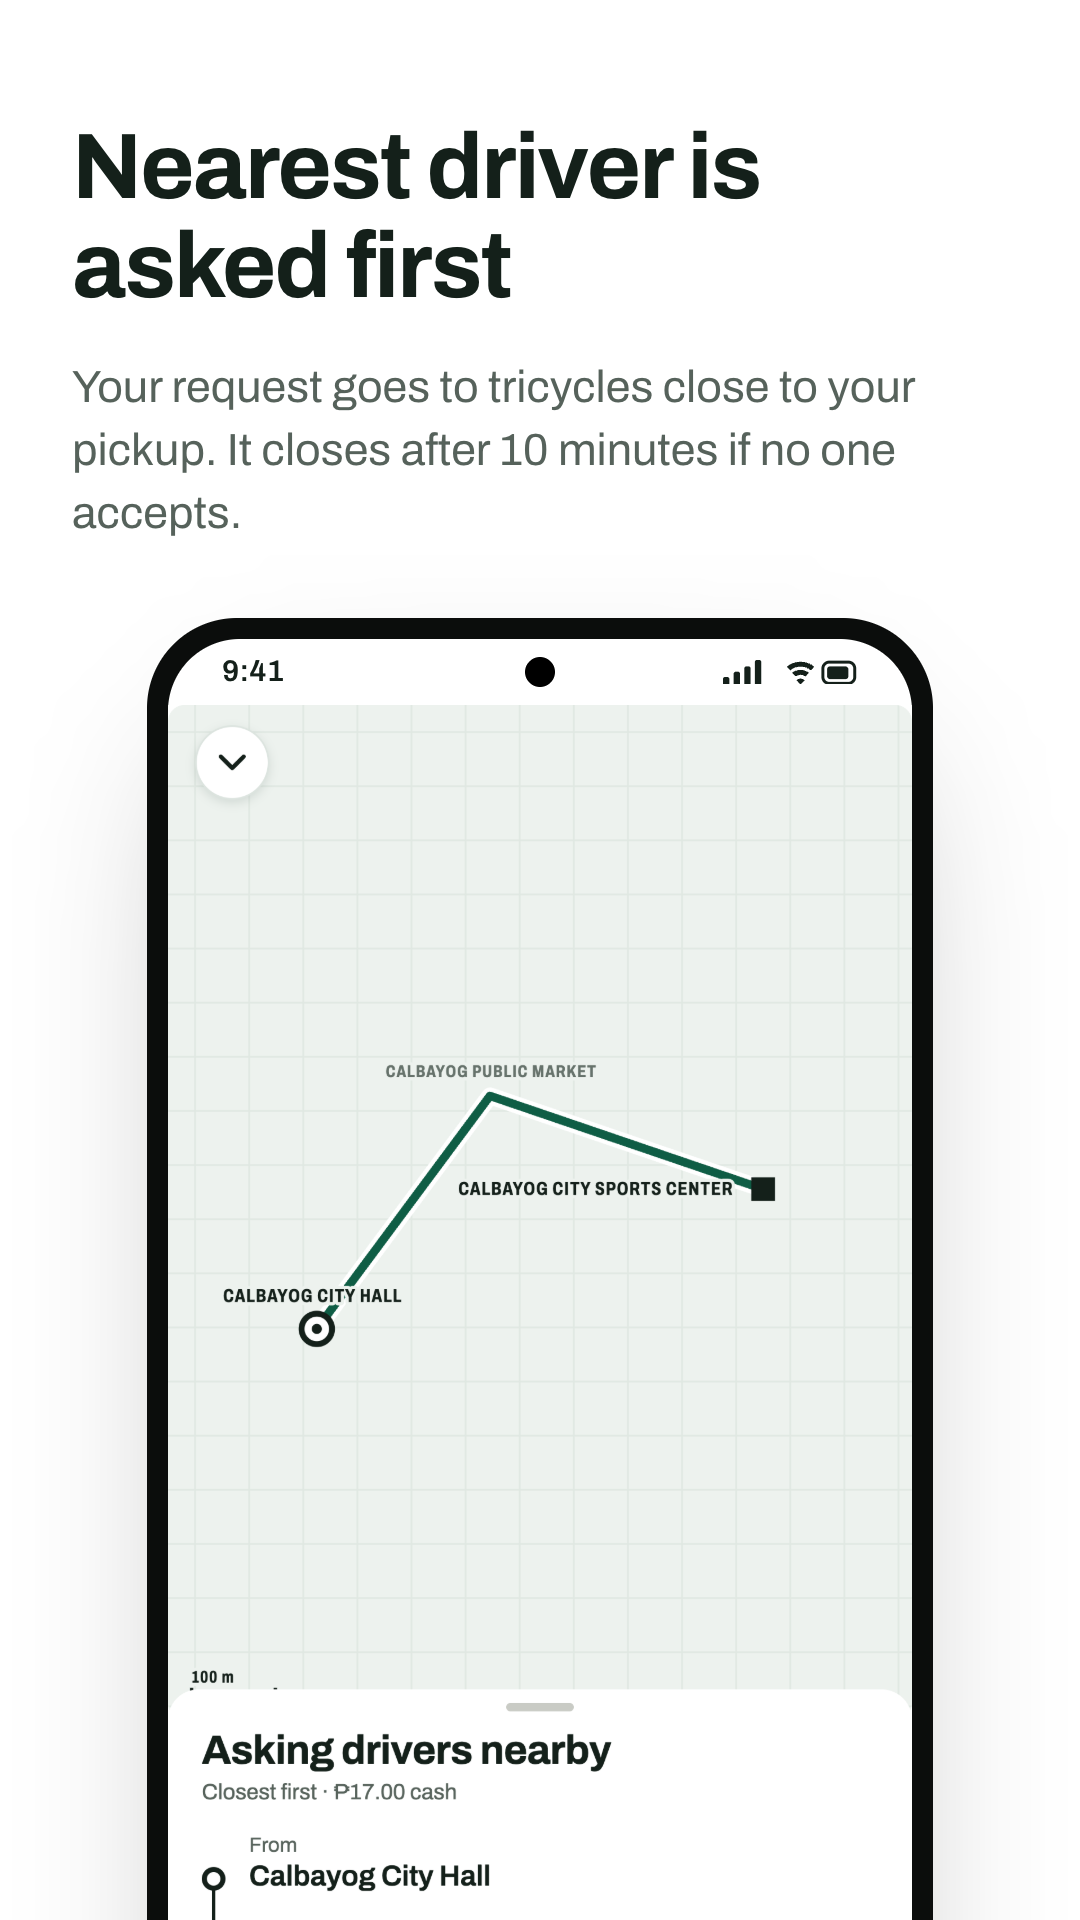
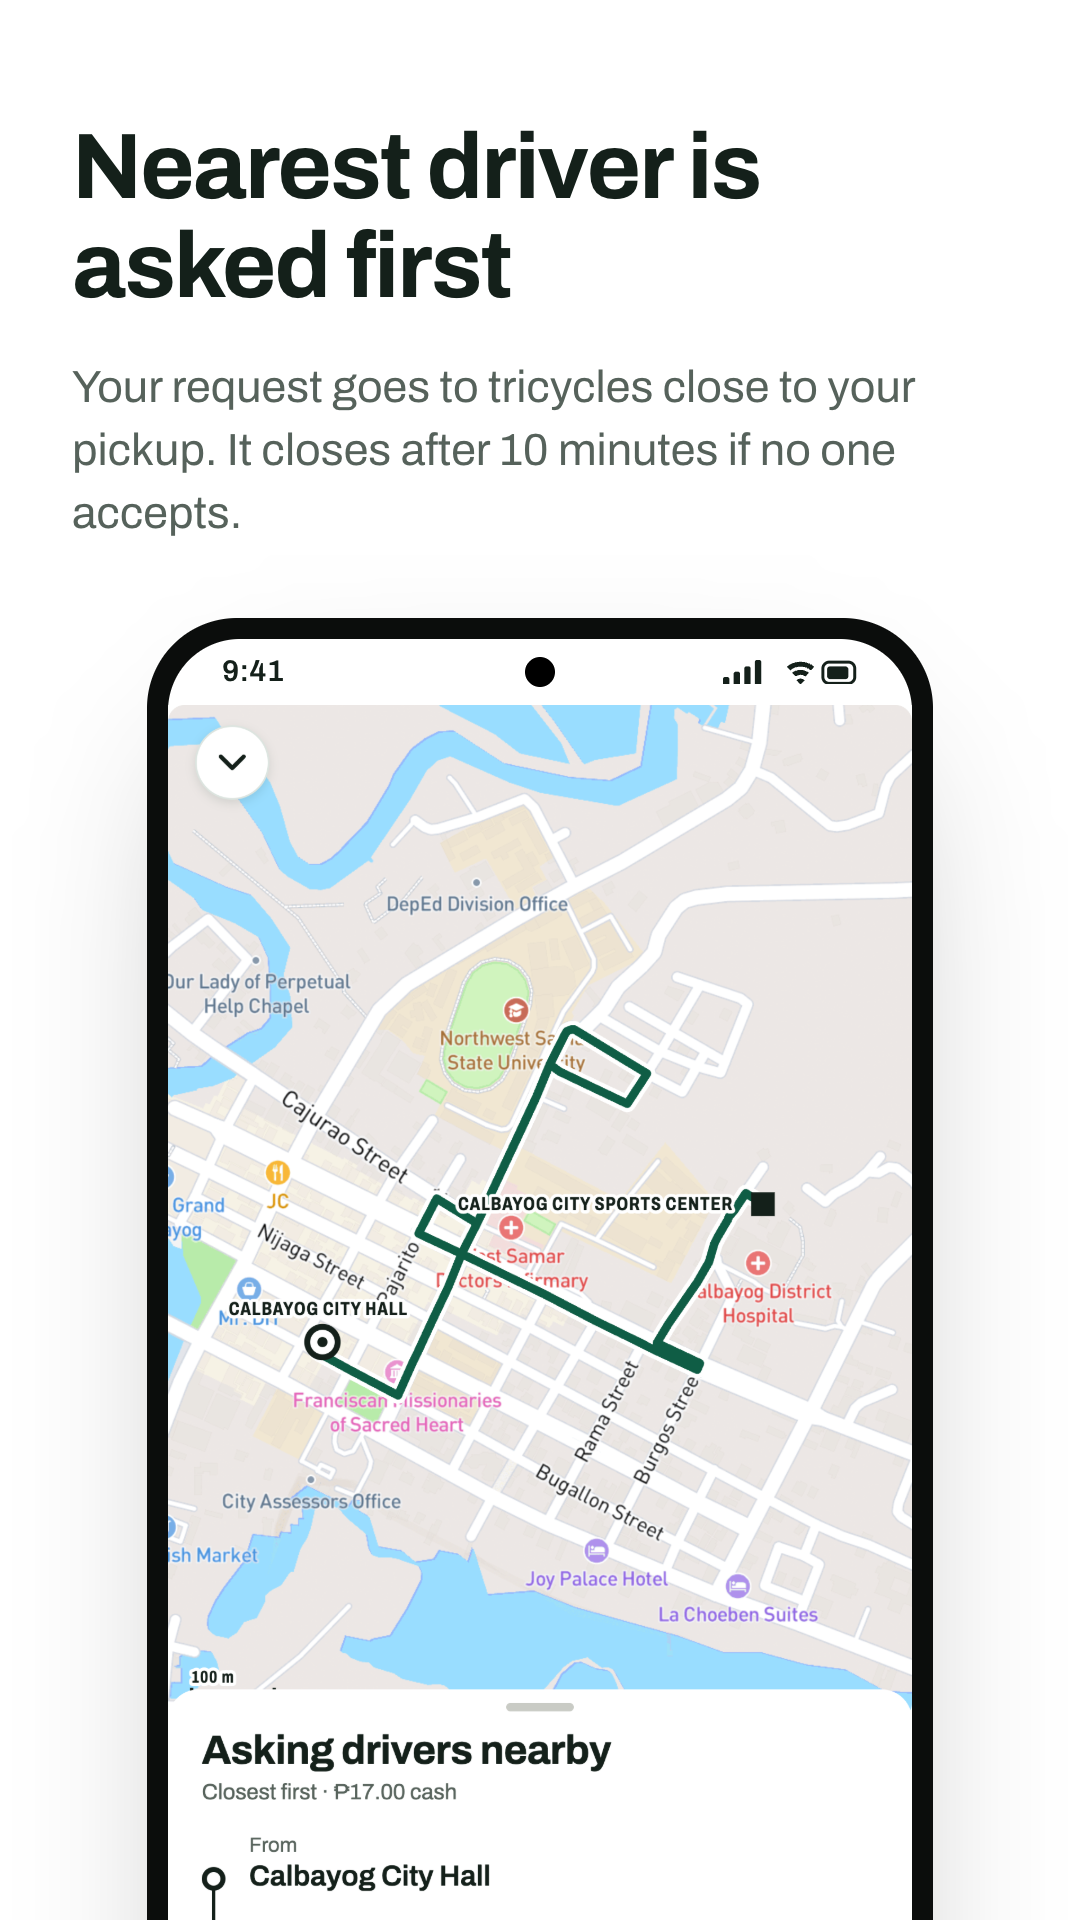
map: draw Angkol's markers over Mapbox streets and snap sample routes to real roads
- RouteDiagram puts a Mapbox streets-v12 basemap under its own route, stops,
  vehicles and labels when EXPO_PUBLIC_MAPBOX_ACCESS_TOKEN is set; plain paper otherwise
- Sample trip and jeepney lines come from src/map/roads.json, generated once
  by scripts/capture/roads.mjs; the app makes no Directions calls
- Remove the pin-style StaticMap and the low-res map screenshot asset
- Capture script allows Mapbox tiles; store screenshots recaptured

diff --git a/src/map/RouteDiagram.tsx b/src/map/RouteDiagram.tsx
@@ -1,10 +1,15 @@
 import React, { useState } from "react";
-import { Pressable, StyleSheet, View, useWindowDimensions, type GestureResponderEvent } from "react-native";
+import { Image, Pressable, StyleSheet, Text, View, useWindowDimensions, type GestureResponderEvent } from "react-native";
 import Svg, { Circle, G, Line, Polyline, Rect, Text as SvgText } from "react-native-svg";
 import type { MapProps } from "./mapTypes";
 import type { Point } from "../types/types";
-import { DEFAULT_CENTER, distanceKm } from "../services/mapbox";
+import { DEFAULT_CENTER, basemapUrl, distanceKm, hasMapbox } from "../services/mapbox";
 import { glyphShapes } from "../common/Glyph";
+import roads from "./roads.json";
+import { roadKey } from "./roadKey";
+
+/** Sample lines snapped to real roads ahead of time (scripts/capture/roads.mjs). */
+const onRoads = (coords: number[][]) => (roads as Record<string, number[][]>)[roadKey(coords)];
 
 const INK = "#14201A";
 const PAPER = "#EDF2EE";
@@ -32,7 +37,9 @@ function fit(points: Point[], width: number, height: number, pad: number): View2
   const spanX = Math.max(maxX - minX, 1e-7);
   const spanY = Math.max(maxY - minY, 1e-7);
   const fitScale = Math.min((width - pad * 2) / spanX, (height - pad * 2) / spanY);
-  const scale = Math.max(TILE * 2 ** 12.5, Math.min(TILE * 2 ** 16.4, fitScale));
+  // Zoom is kept to two decimals so a Mapbox basemap at the same zoom lines up pixel for pixel.
+  const zoom = Math.round(Math.log2(Math.max(TILE * 2 ** 12.5, Math.min(TILE * 2 ** 16.4, fitScale)) / TILE) * 100) / 100;
+  const scale = TILE * 2 ** zoom;
   return { cx: (minX + maxX) / 2, cy: (minY + maxY) / 2, scale };
 }
 
@@ -97,7 +104,7 @@ function Label({ x, y, text, color = INK, anchor = "middle", size = 11 }: { x: n
   const label = text;
   return (
     <G>
-      <SvgText {...common} stroke={PAPER} strokeWidth={4} strokeLinejoin="round" fill={PAPER}>
+      <SvgText {...common} stroke="#FFFFFF" strokeWidth={4} strokeLinejoin="round" fill="#FFFFFF">
         {label}
       </SvgText>
       <SvgText {...common} fill={color}>
@@ -108,7 +115,7 @@ function Label({ x, y, text, color = INK, anchor = "middle", size = 11 }: { x: n
 }
 
 /**
- * Angkol's map: a drawn route diagram instead of a borrowed basemap.
+ * Angkol's map: our own route, stops and vehicles, drawn over Mapbox streets when a token is set.
  * Each screen frames its own subject: the approaching driver, the ride,
  * the corridor, or the spot being picked.
  */
@@ -129,7 +136,17 @@ export default function RouteDiagram({
   const window = useWindowDimensions();
   const [width, setWidth] = useState(Math.max(280, window.width - 40));
 
-  const line: Point[] = (geometry?.coordinates ?? []).map(([longitude, latitude]) => ({ name: "", latitude, longitude }));
+  const given = geometry?.coordinates ?? [];
+  const snapped =
+    given.length >= 2
+      ? onRoads(given)
+      : pickup && destination
+        ? onRoads([[pickup.longitude, pickup.latitude], [destination.longitude, destination.latitude]])
+        : undefined;
+  // Roads end at the kerb; join them to the actual pickup and drop-off marks.
+  const ends = given.length >= 2 ? given : pickup && destination ? [[pickup.longitude, pickup.latitude], [destination.longitude, destination.latitude]] : [];
+  const path = snapped ? [ends[0], ...snapped, ends[ends.length - 1]] : given;
+  const line: Point[] = path.map(([longitude, latitude]) => ({ name: "", latitude, longitude }));
   const anchor = pickup ?? destination ?? line[0] ?? { name: "", ...DEFAULT_CENTER };
   const nearby = (vehicles ?? []).filter((v) => distanceKm(anchor, v.location) <= 3);
   const focus: Point[] = [
@@ -167,6 +184,12 @@ export default function RouteDiagram({
     onSelect({ name: "Pinned spot", latitude, longitude });
   }
 
+  const basemap = basemapUrl(
+    { longitude: view.cx * 360 - 180, latitude: latFromY(view.cy) },
+    Math.log2(view.scale / TILE),
+    width,
+    height,
+  );
   const grid: React.ReactNode[] = [];
   for (let x = 16; x < width; x += 32) {
     grid.push(<Line key={`gx${x}`} x1={x} y1={0} x2={x} y2={height} stroke={GRID} strokeWidth={1} />);
@@ -175,7 +198,8 @@ export default function RouteDiagram({
     grid.push(<Line key={`gy${y}`} x1={0} y1={y} x2={width} y2={y} stroke={GRID} strokeWidth={1} />);
   }
 
-  const context = [...(landmarks ?? [])].filter((p) => p.name !== pickup?.name && p.name !== destination?.name);
+  // The street basemap already names places, so landmark labels only appear on the plain map.
+  const context = hasMapbox ? [] : [...(landmarks ?? [])].filter((p) => p.name !== pickup?.name && p.name !== destination?.name);
 
   // Everything drawn as a mark claims its space before any label is placed.
   const taken: Box[] = [];
@@ -242,9 +266,16 @@ export default function RouteDiagram({
 
   return (
     <View style={[styles.frame, { height }]} onLayout={(e) => setWidth(Math.max(1, e.nativeEvent.layout.width))}>
-      <Svg width={width} height={height}>
-        <Rect x={0} y={0} width={width} height={height} fill={PAPER} />
-        {grid}
+      {basemap ? (
+        <Image
+          source={{ uri: basemap }}
+          style={[StyleSheet.absoluteFill, { width, height }]}
+          resizeMode="stretch"
+          accessibilityIgnoresInvertColors
+        />
+      ) : null}
+      <Svg width={width} height={height} style={StyleSheet.absoluteFill}>
+        {basemap ? null : grid}
 
         {context.map((p) => {
           const at = px(p);
@@ -337,10 +368,22 @@ export default function RouteDiagram({
         accessibilityLabel={mode ? `Tap to set ${mode} on the map` : "Route map"}
         onPress={mode ? select : undefined}
       />
+      {basemap ? <Text style={styles.credit}>© Mapbox © OpenStreetMap</Text> : null}
     </View>
   );
 }
 
 const styles = StyleSheet.create({
   frame: { borderRadius: 10, overflow: "hidden", backgroundColor: PAPER },
+  credit: {
+    position: "absolute",
+    right: 6,
+    bottom: 4,
+    fontFamily: "Archivo",
+    fontSize: 9,
+    color: "#56625B",
+    backgroundColor: "rgba(255,255,255,0.8)",
+    paddingHorizontal: 4,
+    borderRadius: 3,
+  },
 });

diff --git a/src/services/mapbox.ts b/src/services/mapbox.ts
@@ -2,6 +2,7 @@ import type { Geometry, Point } from "../types/types";
 
 const TOKEN = (process.env.EXPO_PUBLIC_MAPBOX_ACCESS_TOKEN ?? "").trim();
 const STYLE = "mapbox/streets-v12";
+const BASEMAP_STYLE = "mapbox/streets-v12";
 const ORIGIN = "https://api.mapbox.com";
 
 export const hasMapbox = TOKEN.startsWith("pk.") && TOKEN.length > 40;
@@ -126,6 +127,23 @@ function encodePolyline(coordinates: Geometry["coordinates"], step: number) {
     previousLat = lat;
     previousLng = lng;
   }
+}
+
+/**
+ * A plain street basemap (no overlays) for the app's own drawn markers.
+ * Same Web Mercator maths as RouteDiagram, so pixels line up exactly.
+ */
+export function basemapUrl(
+  center: { latitude: number; longitude: number },
+  zoom: number,
+  width: number,
+  height: number,
+): string | null {
+  if (!hasMapbox) {return null;}
+  const w = Math.min(1280, Math.max(1, Math.round(width)));
+  const h = Math.min(1280, Math.max(1, Math.round(height)));
+  const camera = `${center.longitude.toFixed(6)},${center.latitude.toFixed(6)},${zoom.toFixed(2)},0`;
+  return `${ORIGIN}/styles/v1/${BASEMAP_STYLE}/static/${camera}/${w}x${h}@2x?access_token=${encodeURIComponent(TOKEN)}&logo=false&attribution=false`;
 }
 
 export function staticMapUrl(scene: MapScene): string | null {

diff --git a/src/map/CalbayogMap.tsx b/src/map/CalbayogMap.tsx
@@ -1,13 +1,11 @@
 import React from "react";
 import type { MapProps } from "./mapTypes";
-import { hasMapbox } from "../services/mapbox";
-import StaticMap from "./StaticMap";
 import RouteDiagram from "./RouteDiagram";
 
 /**
- * Street tiles when a Mapbox token is configured; otherwise Angkol's own
- * drawn route diagram, framed to whatever the screen is about.
+ * Angkol's drawn map: Mapbox streets underneath when a token is configured,
+ * plain paper otherwise. Markers, labels and the route are always our own.
  */
 export default function CalbayogMap(props: MapProps) {
-  return hasMapbox ? <StaticMap {...props} /> : <RouteDiagram {...props} />;
+  return <RouteDiagram {...props} />;
 }

diff --git a/src/map/roadKey.ts b/src/map/roadKey.ts
@@ -1,0 +1,3 @@
+/** Stable key for a sequence of [longitude, latitude] pairs. */
+export const roadKey = (coords: number[][]) =>
+  coords.map(([lng, lat]) => `${lng.toFixed(5)},${lat.toFixed(5)}`).join(";");

diff --git a/README.md b/README.md
@@ -13,7 +13,7 @@ Sample password for all predefined accounts: `Angkol123!`.
 
 Unknown emails and incorrect sample passwords show an error. These fictional accounts simulate recognition locally; no real authentication or account storage is involved.
 
-All screen data is fictional and bundled locally. Buttons simulate changes in memory. Leaving a preview or reloading resets changes. The map is a bundled snapshot from the existing design; location, calling, directions, and sharing are previews. No login, backend, credentials, GPS, map service, or database is required.
+All screen data is fictional and bundled locally. Buttons simulate changes in memory. Leaving a preview or reloading resets changes. The map is drawn by the app. With `EXPO_PUBLIC_MAPBOX_ACCESS_TOKEN` in `.env` it sits on Mapbox street tiles, and sample routes follow real roads from `src/map/roads.json` (refresh with `node --env-file=.env scripts/capture/roads.mjs`); without a token it falls back to plain paper. Otherwise location, calling, directions, and sharing are previews. No login, backend, credentials, GPS, map service, or database is required.
 
 `src/api.ts` is an in-memory UI adapter and never makes network requests. Backend, Firebase configuration, credentials, and emulator tools have been removed.
 

diff --git a/MOBILE-DESIGN.md b/MOBILE-DESIGN.md
@@ -26,6 +26,7 @@ These live in `src/passenger/passengerStyles.ts` (`passengerColors`, `ps`), and 
 ## Rules
 
 - Copy states what is on screen. No greeting headlines, no taglines, no exclamation marks except PARA!.
+- Maps: our own markers drawn over Mapbox `streets-v12` tiles (same Web Mercator maths, zoom rounded to 2 decimals). Sample routes come from `src/map/roads.json`, never from a live Directions call. No token means plain paper.
 - Map labels go through `placeLabels()`. Pickup and drop-off labels are always drawn, and context labels drop out rather than overlap.
 - Live trip screens let the map fill the space above the sheet, so there is no dead band.
 - Admin: KPI tiles only on Overview. Every other page leads with its queue or table. Minimum text is 12–13px.
